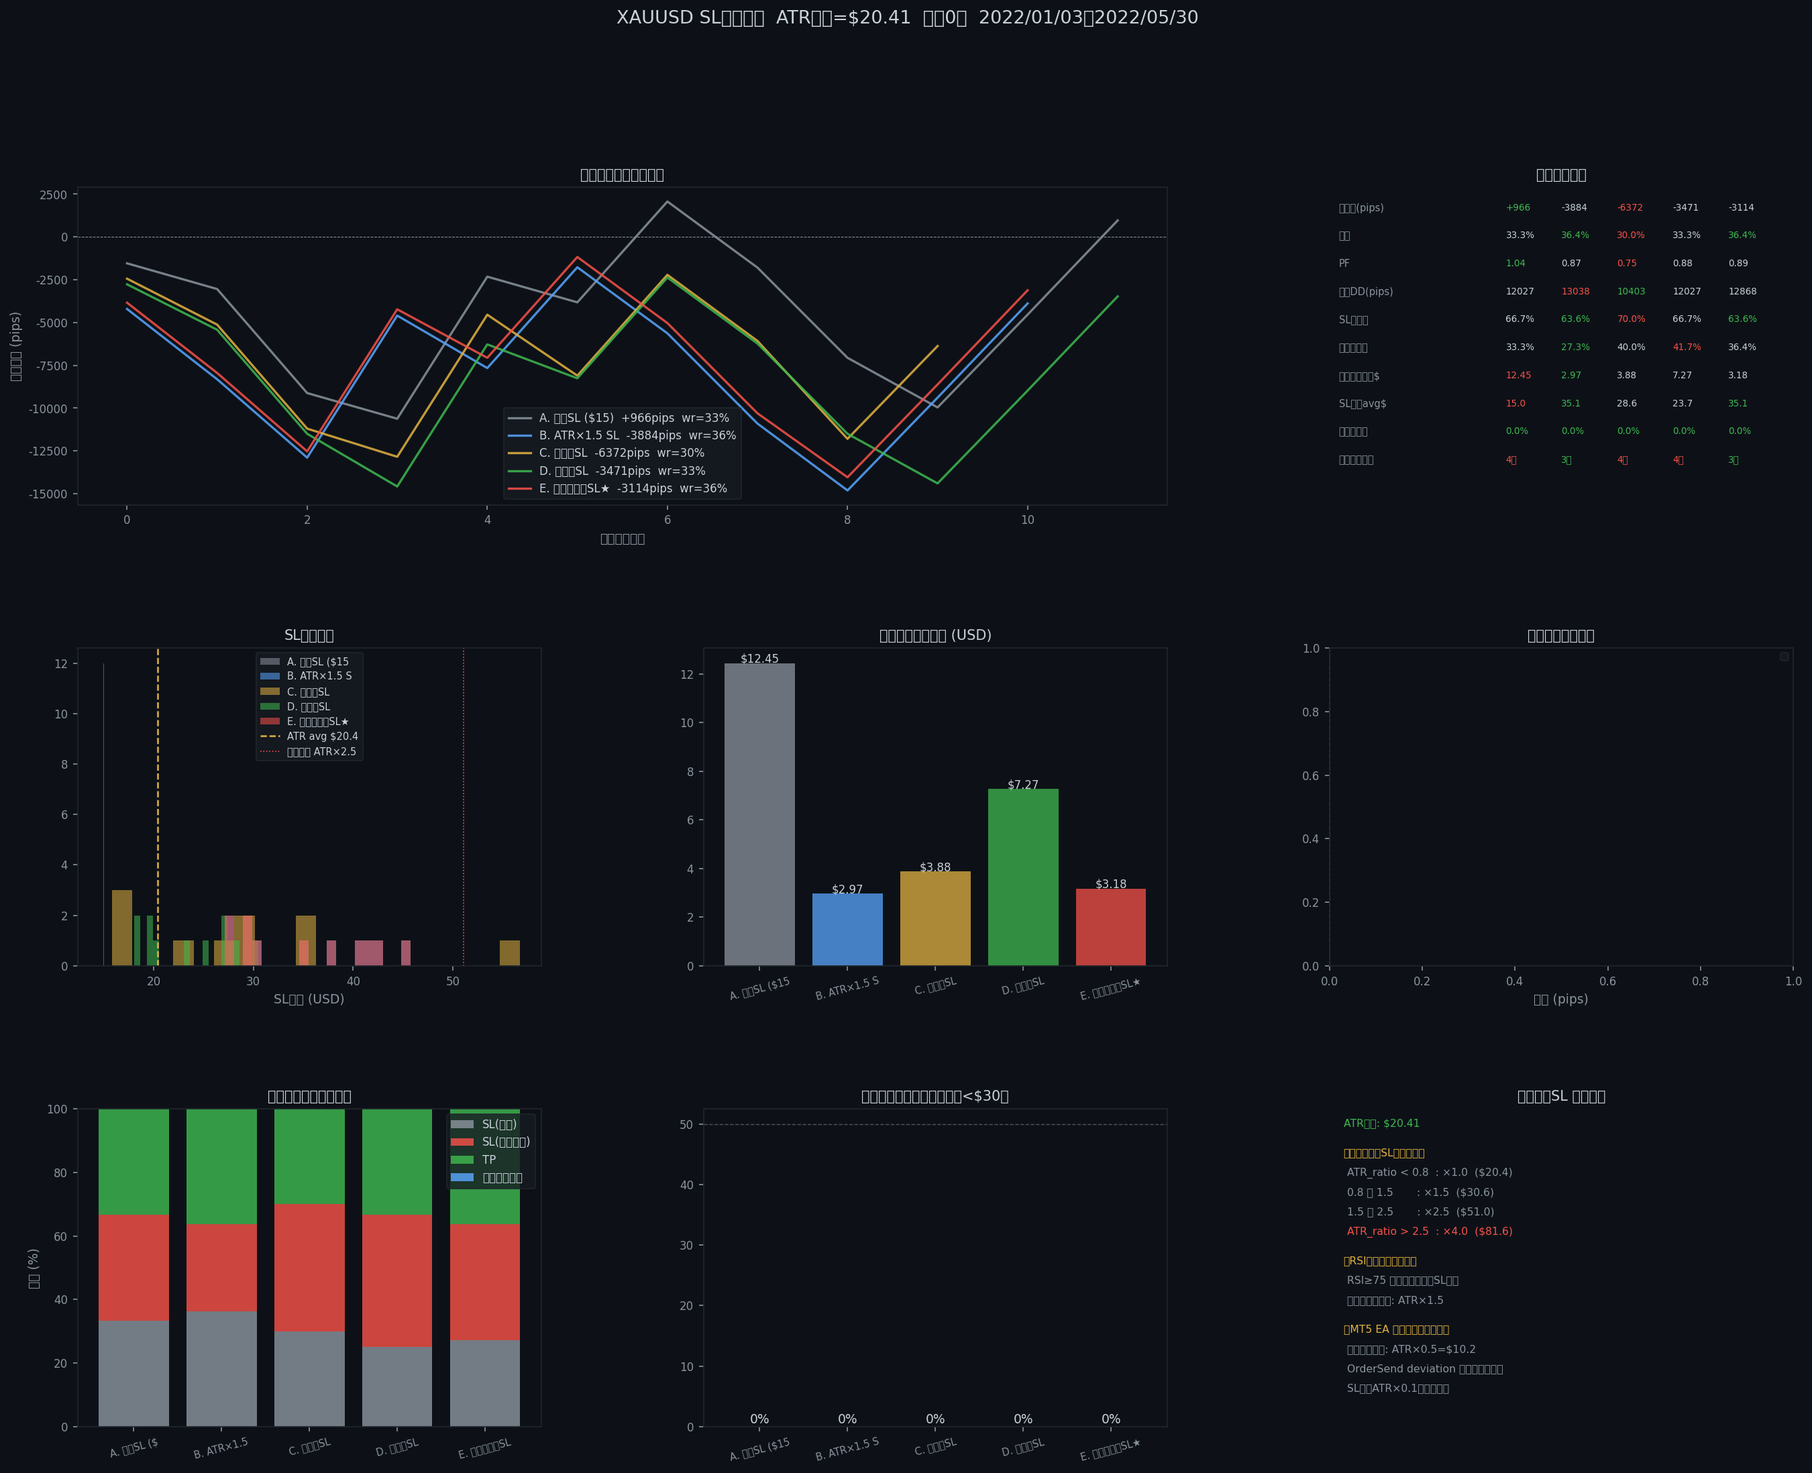
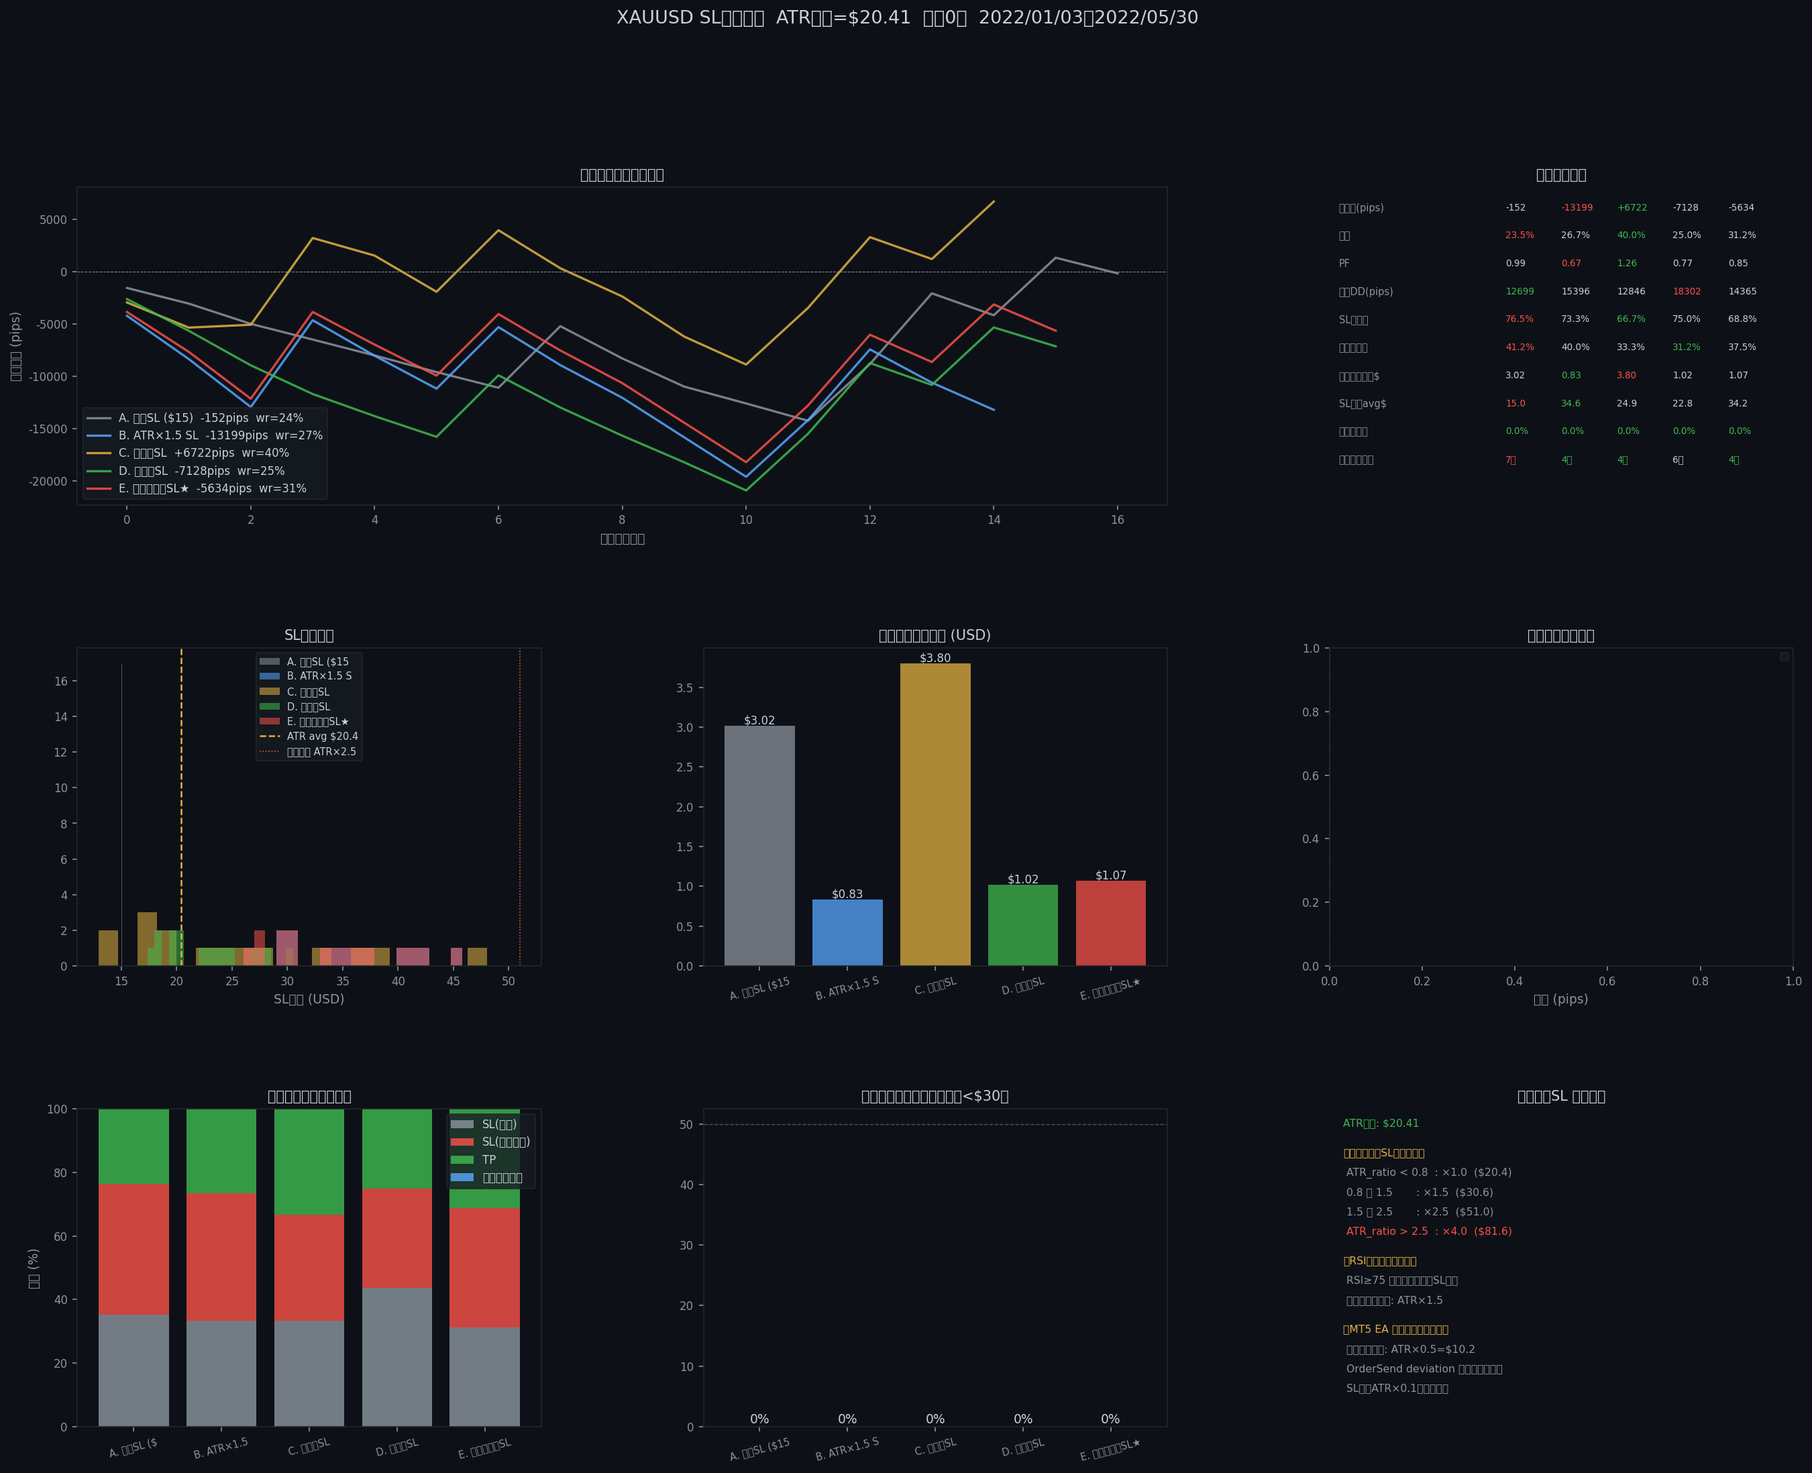
feat: M5 RSI エントリータイミングフィルタを追加
## 変更内容

- config.py: MT5 に m5_bars=20,000 追加
- core/data.py: M5 を tf_map に追加、generate_m5_from_h1() 追加
  （H1 1本 → M5 12本、バックテスト用合成データ生成）
- core/indicators.py: add_m5_indicators() 追加（RSI/ATR on M5）
- core/strategy.py:
  - check_m5_entry_filter(rsi_m5, rsi_m5_prev, rsi_d1, symbol) 追加
    BTCUSD: rising AND (40-55 押し目 | 70-80 モメンタム | >80 かつ D1>70)
            AND NOT 60-70（禁止ゾーン）
    XAUUSD: rising AND 50-70 AND <80（>80 絶対禁止）
  - find_m5_entry(): H1 シグナル後に最初の M5 通過バーでエントリー
  - run_backtest(): df_m5 引数追加、M5 優先・M1 フォールバック
- mt5_ea_bridge.py: M5 50本取得 → M5 RSI フィルタ → signal.json に
  rsi_m5/rsi_m5_prev/m5_filter_ok を出力
- local_analysis.py: M5 生成・指標計算・バックテストへ受け渡し
- mt5_backtest.py: MT5 接続時は fetch M5、未接続は H1 から合成

https://claude.ai/code/session_015fWJABZrbBPhQq4psUgG8R

diff --git a/core/strategy.py b/core/strategy.py
@@ -62,6 +62,78 @@ def detect_sma_rsi_signals(df: pd.DataFrame, p: dict, direction: str) -> list[di
     return out
 
 
+# ── M5 エントリーフィルタ ──────────────────────────────────
+
+def check_m5_entry_filter(rsi_m5: float, rsi_m5_prev: float,
+                           rsi_d1: float, symbol: str) -> bool:
+    """
+    M5 RSI エントリータイミングフィルタ。
+    RSI が上昇中（rising）かつ指定ゾーンにある場合のみ True を返す。
+
+    BTCUSD:
+      - 押し目ゾーン  : 40〜55
+      - モメンタムゾーン: 70〜80
+      - D1 強い時のみ : >80（rsi_d1 > 70 が必要）
+      - 禁止ゾーン    : 60〜70（シグナル反転多発帯）
+
+    XAUUSD:
+      - 有効ゾーン    : 50〜70
+      - >80 は絶対禁止（急反転リスク）
+    """
+    if np.isnan(rsi_m5) or np.isnan(rsi_m5_prev):
+        return False
+    rising = rsi_m5 > rsi_m5_prev
+    if not rising:
+        return False
+
+    if symbol == 'BTCUSD':
+        zone_ok = (
+            (40 <= rsi_m5 <= 55) or
+            (70 <= rsi_m5 <= 80) or
+            (rsi_m5 > 80 and rsi_d1 > 70)
+        )
+        forbidden = (60 <= rsi_m5 <= 70)
+        return zone_ok and not forbidden
+    else:  # XAUUSD / default
+        return (50 <= rsi_m5 <= 70) and rsi_m5 < 80
+
+
+def find_m5_entry(df_m5: pd.DataFrame, signal_time: pd.Timestamp,
+                  direction: str, cfg: dict,
+                  rsi_d1: float = 50.0,
+                  symbol: str = 'BTCUSD') -> dict | None:
+    """
+    H1 シグナル発火後、M5 RSI フィルタを最初に通過したバーをエントリーに使う。
+    方向は 'buy' のみ（sell は rules で禁止）。
+    """
+    exe    = cfg.get('EXECUTION', {})
+    sl_cfg = cfg.get('SL', {})
+    # signal_valid_m1 は M1 本数基準 → M5 換算（÷5）
+    valid  = max(cfg.get('EXECUTION', {}).get('signal_valid_m1', 240) // 5, 12)
+    spread = sl_cfg.get('spread_usd', 0.30)
+
+    slc = df_m5[df_m5.index >= signal_time].head(valid)
+    if len(slc) < 3:
+        return None
+
+    rsi   = slc['RSI'].values
+    close = slc['Close'].values
+    idx   = slc.index
+
+    for i in range(1, len(close)):
+        if np.isnan(rsi[i]) or np.isnan(rsi[i - 1]):
+            continue
+        if direction == 'buy' and check_m5_entry_filter(rsi[i], rsi[i - 1], rsi_d1, symbol):
+            ep = float(close[i]) + spread
+            return {
+                'entry_time':      idx[i],
+                'entry_price':     ep,
+                'sma_at_entry':    float(close[i]),
+                'rsi_at_entry':    float(rsi[i]),
+            }
+    return None
+
+
 # ── M1 執行ロジック ────────────────────────────────────────
 
 def find_m1_entry(df_m1: pd.DataFrame, signal_time: pd.Timestamp,
@@ -233,7 +305,8 @@ def get_all_strategies(cfg: dict | None = None) -> list[SLStrategy]:
 def run_backtest(df_h1: pd.DataFrame, df_m1: pd.DataFrame,
                  strategy: SLStrategy, sig_p: dict, cfg: dict,
                  direction: str = 'buy',
-                 crash_bar_set: set | None = None) -> dict:
+                 crash_bar_set: set | None = None,
+                 df_m5: pd.DataFrame | None = None) -> dict:
     """
     H1 シグナル → M1 エントリー → H1 バーで SL/TP 判定
     M1 の Open でスリッページを精密再現
@@ -294,7 +367,18 @@ def run_backtest(df_h1: pd.DataFrame, df_m1: pd.DataFrame,
         if sig['signal_time'] < used_until:
             continue
 
-        info = find_m1_entry(df_m1, sig['signal_time'], direction, cfg, m1_rsi_thr)
+        # D1 RSI（M5フィルタ + rules フィルタ共用）
+        sb       = sig['signal_bar']
+        rsi_d1_v = (float(df_h1['RSI_D1'].iloc[sb])
+                    if 'RSI_D1' in df_h1.columns and not np.isnan(df_h1['RSI_D1'].iloc[sb])
+                    else 50.0)
+        symbol   = cfg.get('MT5', {}).get('symbol', 'BTCUSD')
+
+        # M5 優先、なければ M1 フォールバック
+        if df_m5 is not None and not df_m5.empty:
+            info = find_m5_entry(df_m5, sig['signal_time'], direction, cfg, rsi_d1_v, symbol)
+        else:
+            info = find_m1_entry(df_m1, sig['signal_time'], direction, cfg, m1_rsi_thr)
         if info is None:
             continue
 

diff --git a/mt5_ea_bridge.py b/mt5_ea_bridge.py
@@ -29,7 +29,8 @@ import numpy as np
 sys.path.insert(0, str(Path(__file__).parent))
 import config as C
 from core.data       import connect_mt5, fetch_ohlcv
-from core.indicators import add_h1_indicators, add_d1_indicators
+from core.indicators import add_h1_indicators, add_d1_indicators, add_m5_indicators
+from core.strategy   import check_m5_entry_filter
 
 CFG = {k: getattr(C, k) for k in
        ['MT5','INDICATOR','SIGNAL','EXECUTION','SL','RULES','LOCAL','PLOT','BRIDGE']}
@@ -66,6 +67,7 @@ def compute_signal(symbol: str, cfg: dict) -> dict | None:
 
         df_h1_raw = fetch_ohlcv(symbol, 'H1', 200)
         df_d1_raw = fetch_ohlcv(symbol, 'D1', 50)
+        df_m5_raw = fetch_ohlcv(symbol, 'M5', 60)   # RSI(14) + 余裕分
         if df_h1_raw is None or df_d1_raw is None:
             return None
 
@@ -81,13 +83,24 @@ def compute_signal(symbol: str, cfg: dict) -> dict | None:
         sma20    = float(last['SMA20'])
         rsi_d1_v = float(df_d1['RSI'].iloc[-1])
 
+        # M5 RSI（直近2本で rising 判定）
+        rsi_m5_cur  = float('nan')
+        rsi_m5_prev = float('nan')
+        m5_ok       = False
+        if df_m5_raw is not None and len(df_m5_raw) >= 3:
+            df_m5 = add_m5_indicators(df_m5_raw, cfg)
+            if not df_m5.empty and len(df_m5) >= 2:
+                rsi_m5_cur  = float(df_m5['RSI'].iloc[-1])
+                rsi_m5_prev = float(df_m5['RSI'].iloc[-2])
+                m5_ok = check_m5_entry_filter(rsi_m5_cur, rsi_m5_prev, rsi_d1_v, symbol)
+
         sl_multi = cfg['SL']['sl_multi']
         now      = datetime.now(timezone.utc)
         hour_utc = now.hour
         dow      = now.weekday()   # 0=Mon, 6=Sun
 
-        # RSI 閾値ベースの生シグナル（買いのみ、売り禁止）
-        active_buy = rsi_h1_v < cfg['SIGNAL']['buy_rsi_thr']
+        # RSI 閾値ベースの生シグナル（買いのみ、売り禁止）+ M5 タイミング確認
+        active_buy = rsi_h1_v < cfg['SIGNAL']['buy_rsi_thr'] and m5_ok
 
         # RulesEngine でフィルタリング
         score           = 0
@@ -128,6 +141,9 @@ def compute_signal(symbol: str, cfg: dict) -> dict | None:
             'atr':             round(atr_v,    2),
             'rsi_h1':          round(rsi_h1_v, 1),
             'rsi_d1':          round(rsi_d1_v, 1),
+            'rsi_m5':          round(rsi_m5_cur, 1) if not np.isnan(rsi_m5_cur) else 0.0,
+            'rsi_m5_prev':     round(rsi_m5_prev, 1) if not np.isnan(rsi_m5_prev) else 0.0,
+            'm5_filter_ok':    m5_ok,
             'sma20':           round(sma20,    2),
             'sl_multi':        round(sl_multi,  2),
             'action':          action,
@@ -228,6 +244,7 @@ def run_bridge(cfg: dict, once: bool = False):
                 print(f"\n[{ts}] #{itr}  "
                       f"close=${data['close']:,.2f}  "
                       f"RSI_H1={data['rsi_h1']:.1f}  RSI_D1={data['rsi_d1']:.1f}  "
+                      f"RSI_M5={data['rsi_m5']:.1f}({'↑' if data['m5_filter_ok'] else '↓/NG'})  "
                       f"ATR=${data['atr']:.2f}")
                 print(f"  action={data['action'].upper():4s}  "
                       f"SL=${data['sl_price']:,.2f}  TP=${data['tp_price']:,.2f}  "

diff --git a/local_analysis.py b/local_analysis.py
@@ -16,8 +16,8 @@ import pandas as pd
 
 sys.path.insert(0, str(Path(__file__).parent))
 import config as C
-from core.data       import load_data
-from core.indicators import add_h1_indicators, add_m1_indicators, add_d1_rsi_to_h1
+from core.data       import load_data, generate_m5_from_h1
+from core.indicators import add_h1_indicators, add_m1_indicators, add_m5_indicators, add_d1_rsi_to_h1
 from core.strategy   import (detect_sma_rsi_signals, get_all_strategies,
                               run_backtest, AtrSL)
 from core.plot       import plot_crash_analysis, plot_sl_comparison
@@ -37,7 +37,7 @@ def _score(res, min_t=6):
     return float((res['total_pnl'] / dd) * pf * (1 + sh * 0.05) * nw)
 
 
-def optimize(df_h1, df_m1, direction, n_samples=None):
+def optimize(df_h1, df_m1, direction, n_samples=None, df_m5=None):
     rng = np.random.default_rng(CFG['OPTIMIZE']['seed'])
     ns  = n_samples or CFG['OPTIMIZE']['n_samples']
 
@@ -71,7 +71,7 @@ def optimize(df_h1, df_m1, direction, n_samples=None):
                                'trail_multi':   raw['trail_m']}}
 
         strat = AtrSL(multi=raw['sl_multi'])
-        res   = run_backtest(df_h1, df_m1, strat, sig_p, cfg_t, direction)
+        res   = run_backtest(df_h1, df_m1, strat, sig_p, cfg_t, direction, df_m5=df_m5)
         sc    = _score(res, CFG['OPTIMIZE']['min_trades'])
         cnt  += 1
 
@@ -101,16 +101,18 @@ def main(args):
     # 1. データ
     print("\n[1] データ生成")
     df_h1_raw, df_m1_raw, is_real = load_data(CFG, force_synthetic=True)
+    df_m5_raw = generate_m5_from_h1(df_h1_raw)
 
     # 2. 指標
     print("\n[2] 指標計算")
     df_h1 = add_h1_indicators(df_h1_raw, CFG)
-    df_h1 = add_d1_rsi_to_h1(df_h1, CFG)      # D1 RSI を H1 に付加（ルールフィルタ用）
+    df_h1 = add_d1_rsi_to_h1(df_h1, CFG)
     df_m1 = add_m1_indicators(df_m1_raw, CFG)
+    df_m5 = add_m5_indicators(df_m5_raw, CFG)
     atr_a = df_h1['ATR'].mean()
     print(f"  H1: {len(df_h1)}本  ATR avg=${atr_a:.2f}  "
           f"${df_h1['Close'].min():,.0f}〜${df_h1['Close'].max():,.0f}")
-    print(f"  M1: {len(df_m1)}本")
+    print(f"  M5: {len(df_m5)}本  M1: {len(df_m1)}本")
 
     # 3. SL戦略バックテスト比較
     print("\n[3] SL戦略バックテスト（買い・5戦略比較）")
@@ -119,7 +121,7 @@ def main(args):
     results = []
     for strat in strats:
         res = run_backtest(df_h1, df_m1, strat, sig_p, CFG,
-                           direction='buy')
+                           direction='buy', df_m5=df_m5)
         results.append(res)
         rc = res.get('reason_counts', {})
         print(f"\n  {res['strategy']}")
@@ -141,7 +143,7 @@ def main(args):
             lbl = '買い' if d == 'buy' else '売り'
             print(f"\n  [{lbl}]")
             t1 = time.time()
-            opt_results[d] = optimize(df_h1, df_m1, d)
+            opt_results[d] = optimize(df_h1, df_m1, d, df_m5=df_m5)
             print(f"  完了 {time.time()-t1:.1f}秒")
             r = opt_results[d]['result'] or {}
             if r:

diff --git a/core/data.py b/core/data.py
@@ -32,8 +32,9 @@ def connect_mt5(symbol: str) -> bool:
 def fetch_ohlcv(symbol: str, tf_str: str, bars: int) -> pd.DataFrame | None:
     try:
         import MetaTrader5 as mt5
-        tf_map = {'M1':mt5.TIMEFRAME_M1,'H1':mt5.TIMEFRAME_H1,
-                  'H4':mt5.TIMEFRAME_H4,'D1':mt5.TIMEFRAME_D1}
+        tf_map = {'M1':mt5.TIMEFRAME_M1,'M5':mt5.TIMEFRAME_M5,
+                  'H1':mt5.TIMEFRAME_H1,'H4':mt5.TIMEFRAME_H4,
+                  'D1':mt5.TIMEFRAME_D1}
         rates = mt5.copy_rates_from_pos(symbol, tf_map[tf_str], 0, bars)
         if rates is None or len(rates) == 0: return None
         df = pd.DataFrame(rates)
@@ -125,6 +126,50 @@ def generate_h1(n: int = 3600, seed: int = 42,
     ret = (prices[-1] / prices[0] - 1) * 100
     print(f"[合成H1] {n}本  ${prices.min():,.0f}〜${prices.max():,.0f}  "
           f"リターン:{ret:+.1f}%  急落:{len(crash_set)}件")
+    return df
+
+
+def generate_m5_from_h1(df_h1: pd.DataFrame, seed: int = 456) -> pd.DataFrame:
+    """
+    H1 → M5 変換（各H1バーを12本のM5バーに分解）
+    M5 RSI フィルタ動作確認・バックテスト用合成データ
+    """
+    rng  = np.random.default_rng(seed)
+    rows = []
+    n_h1 = len(df_h1)
+
+    for i in range(n_h1):
+        row  = df_h1.iloc[i]
+        o, h, l, c = row['Open'], row['High'], row['Low'], row['Close']
+        ts   = df_h1.index[i]
+        span = abs(h - l)
+
+        drift = (c - o) / 12
+        path  = [o]
+        for _ in range(11):
+            step = drift + rng.normal(0, span * 0.10)
+            path.append(path[-1] + step)
+        path = np.array(path)
+        if abs(path[-1] - c) > 1e-6:
+            path = path + (c - path[-1])
+        path = np.clip(path, l, h)
+        path[-1] = c
+
+        for j in range(12):
+            po = path[j]
+            pc = path[j] if j == 11 else path[j+1]
+            nb = abs(rng.normal(0, span * 0.03))
+            rows.append({
+                'time':   ts + pd.Timedelta(minutes=j * 5),
+                'Open':   po,
+                'High':   min(max(po, pc) + nb, h),
+                'Low':    max(min(po, pc) - nb, l),
+                'Close':  pc,
+                'Volume': float(rng.integers(10, 200)),
+            })
+
+    df = pd.DataFrame(rows).set_index('time')
+    print(f"[合成M5] {len(df)}本完了")
     return df
 
 

diff --git a/mt5_backtest.py b/mt5_backtest.py
@@ -14,8 +14,8 @@ import numpy as np
 
 sys.path.insert(0, str(Path(__file__).parent))
 import config as C
-from core.data       import load_data
-from core.indicators import add_h1_indicators, add_m1_indicators, add_d1_rsi_to_h1
+from core.data       import load_data, fetch_ohlcv, generate_m5_from_h1
+from core.indicators import add_h1_indicators, add_m1_indicators, add_m5_indicators, add_d1_rsi_to_h1
 from core.strategy   import detect_sma_rsi_signals, get_all_strategies, run_backtest
 from core.plot       import plot_crash_analysis, plot_sl_comparison
 
@@ -38,16 +38,24 @@ def main(args):
     df_h1_raw, df_m1_raw, is_real = load_data(cfg, force_synthetic=False)
     src = "MT5実データ" if is_real else "合成データ（MT5未接続）"
     print(f"  ソース: {src}")
+    # M5: MT5実データなら直接取得、合成なら H1 から生成
+    if is_real:
+        df_m5_raw = fetch_ohlcv(cfg['MT5']['symbol'], 'M5', cfg['MT5']['m5_bars'])
+        if df_m5_raw is None:
+            df_m5_raw = generate_m5_from_h1(df_h1_raw)
+    else:
+        df_m5_raw = generate_m5_from_h1(df_h1_raw)
 
     # 2. 指標
     print("\n[2] 指標計算")
     df_h1 = add_h1_indicators(df_h1_raw, cfg)
-    df_h1 = add_d1_rsi_to_h1(df_h1, cfg)      # D1 RSI を H1 に付加（ルールフィルタ用）
+    df_h1 = add_d1_rsi_to_h1(df_h1, cfg)
     df_m1 = add_m1_indicators(df_m1_raw, cfg)
+    df_m5 = add_m5_indicators(df_m5_raw, cfg)
     atr_a = df_h1['ATR'].mean()
     print(f"  H1: {len(df_h1)}本  ATR avg=${atr_a:.2f}  "
           f"${df_h1['Close'].min():,.0f}〜${df_h1['Close'].max():,.0f}")
-    print(f"  M1: {len(df_m1)}本")
+    print(f"  M5: {len(df_m5)}本  M1: {len(df_m1)}本")
 
     # 3. 買い/売り × 5戦略
     print("\n[3] SL戦略バックテスト（買い/売り × 5戦略）")
@@ -60,7 +68,7 @@ def main(args):
         print(f"\n  ── {lbl} ──")
         for strat in strats:
             res = run_backtest(df_h1, df_m1, strat, sig_p, cfg,
-                               direction=direction)
+                               direction=direction, df_m5=df_m5)
             results[direction].append(res)
             rc = res.get('reason_counts', {})
             print(f"  {res['strategy'][:30]:<30} "

diff --git a/core/indicators.py b/core/indicators.py
@@ -66,6 +66,15 @@ def add_m1_indicators(df: pd.DataFrame, cfg: dict) -> pd.DataFrame:
     return df.dropna()
 
 
+def add_m5_indicators(df: pd.DataFrame, cfg: dict) -> pd.DataFrame:
+    """M5 RSI・ATR を付加して返す（M5 エントリーフィルタ用）"""
+    ind = cfg.get('INDICATOR', {})
+    df  = df.copy()
+    df['RSI'] = calc_rsi(df['Close'], ind.get('rsi_period', 14))
+    df['ATR'] = calc_atr(df, ind.get('atr_period', 14))
+    return df.dropna()
+
+
 def add_d1_indicators(df: pd.DataFrame, cfg: dict) -> pd.DataFrame:
     """D1 データに RSI を付加して返す（MT5 D1取得データ用）"""
     ind = cfg.get('INDICATOR', {})

diff --git a/config.py b/config.py
@@ -7,6 +7,7 @@ config.py — 全設定の一元管理
 MT5 = dict(
     symbol    = "XAUUSD",       # GOLD / XAUUSDm など要確認
     h1_bars   = 5000,
+    m5_bars   = 20_000,         # M5 5分足本数（約70日分）
     m1_bars   = 100_000,
     magic     = 20240101,
     deviation = 10,             # 最大スリッページ(pt)
